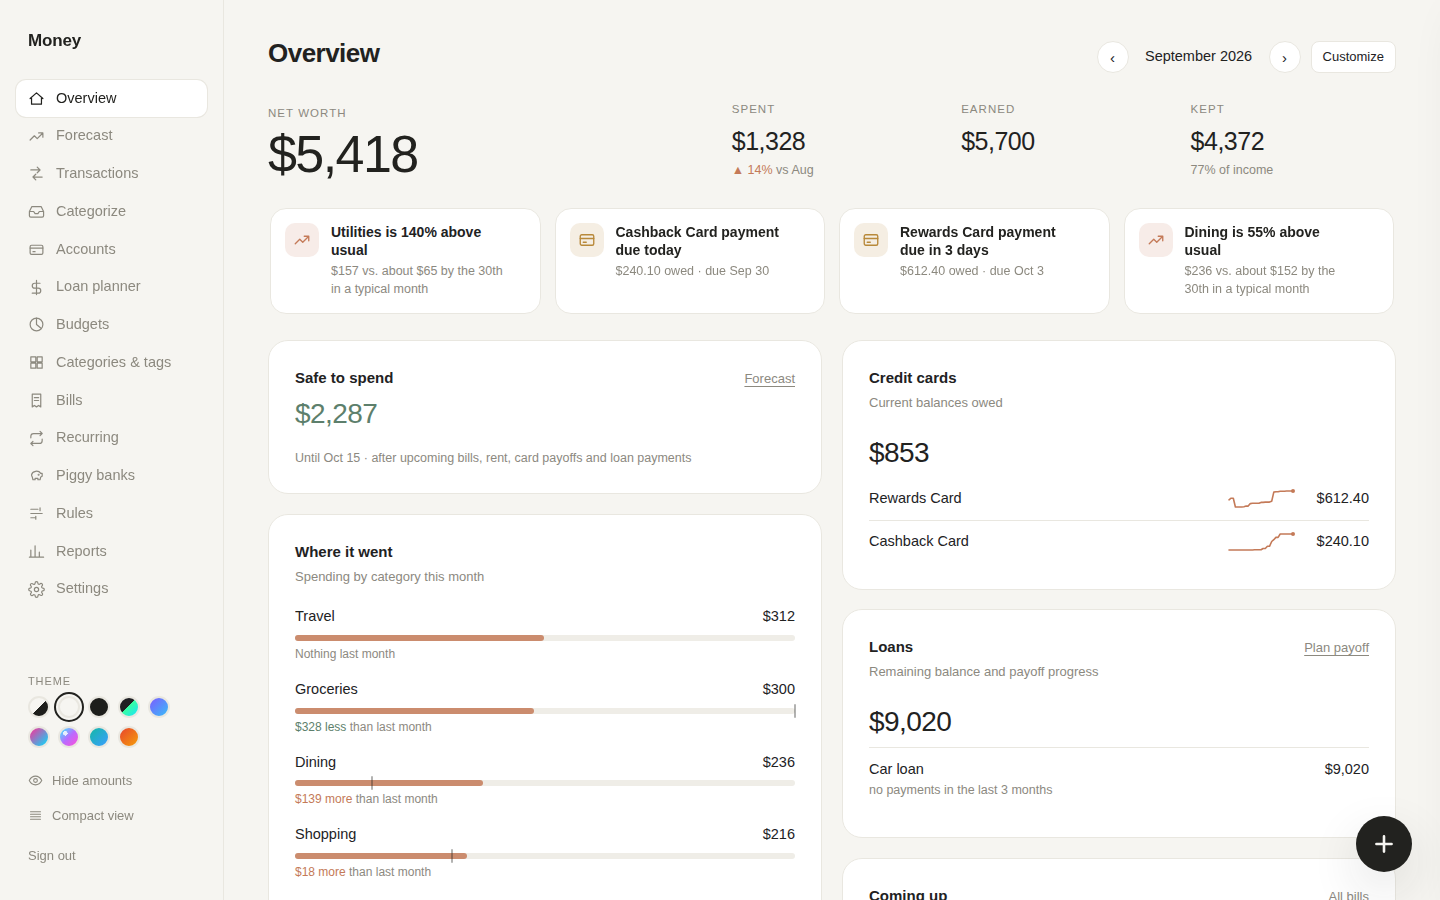
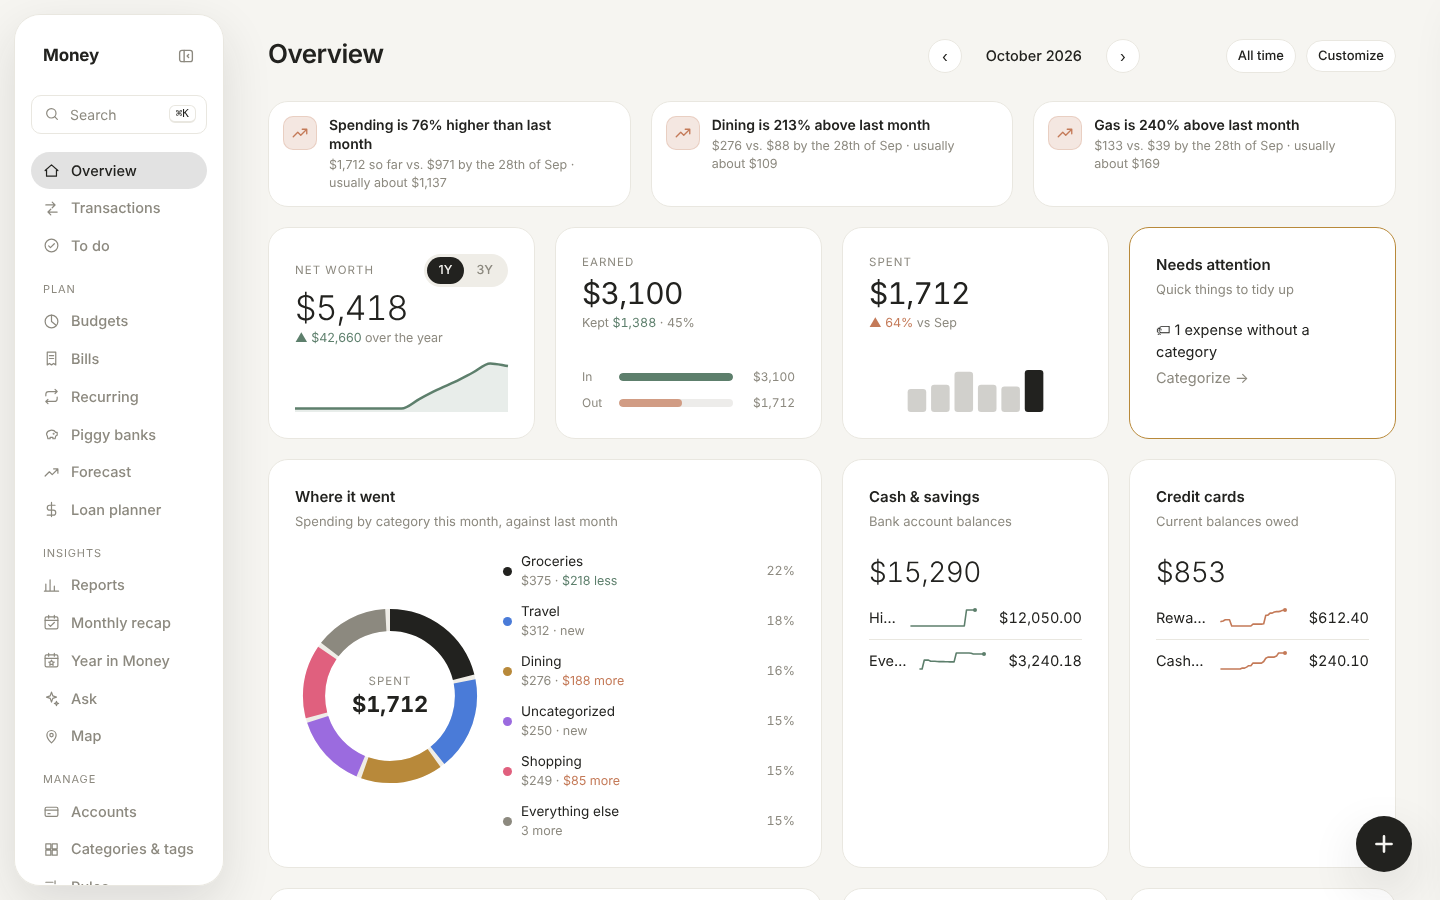
Frosted glass front and center: fresh screenshots, demo opens in Frosted glass with the bento Overview
- New README screenshots from the demo data in Frosted glass (desktop at 2x, iPhone overview, charts, transactions, edit sheet); Liquid glass neon joins the theme gallery
- The GitHub Pages demo opens in Frosted glass with the Overview arranged like the screenshots, on a first visit only
- Needs attention: in a narrow tile the action drops under the text instead of squeezing it to one word per line
- smoke_test --shots takes the new set with the same layout

Claude-Session: https://claude.ai/code/session_01RkvJ8mk2LYN7hbYLxsmdHk

diff --git a/app/src/demo/demo.ts b/app/src/demo/demo.ts
@@ -4,6 +4,17 @@
    When built with GOATCOUNTER set, it also counts visits to each page for GoatCounter (no cookies, no personal data). */
 import { NotFound, createMockApi } from './mockapi';
 
+// A first visit opens in Frosted glass, with the Overview arranged like the README's screenshots (this runs before
+// boot.js reads the theme). Anything the visitor changes is kept, and Customize → Reset gives the usual defaults.
+try {
+  if (!localStorage.getItem('moneyTheme')) localStorage.setItem('moneyTheme', 'frosted');
+  if (!localStorage.getItem('money.dash')) localStorage.setItem('money.dash', JSON.stringify({
+    v: 3, order: ['insights', 'networth', 'earned', 'spent', 'attention', 'spending', 'cash', 'cards', 'flow', 'heatmap', 'loans'],
+    shown: ['cash', 'cards', 'flow', 'heatmap', 'loans'], hidden: ['safe', 'budgets', 'bills', 'cashflow'],
+    size: { networth: 's', attention: 's', cash: 's', cards: 's', heatmap: 's', loans: 's', spending: 'm', flow: 'm' },
+  }));
+} catch (e) { /* storage blocked */ }
+
 const handle = createMockApi();
 const realFetch = window.fetch.bind(window);
 const json = { 'Content-Type': 'application/json' };

diff --git a/app/assets/money.css b/app/assets/money.css
@@ -343,6 +343,8 @@
   .tbl, .cards > .panel { contain: layout paint; }
   .attention { border-color: var(--warn); }
   .attention .row .name { white-space: normal; }
+  /* in a narrow tile the action drops under the text instead of squeezing it to a word per line */
+  .attention .row { flex-wrap: wrap; row-gap: 4px; } .attention .row .name { flex: 1 1 9em; }
   .offline { padding-top: calc(6px + env(safe-area-inset-top, 0px)) !important; position: fixed; top: 0; left: 0; right: 0; z-index: 70; background: var(--warn); color: #111; text-align: center; font-size: 13px; padding: 6px 12px; }
   /* ---------- Floating add button ---------- */
   .fab { position: fixed; right: 28px; bottom: 28px; width: 56px; height: 56px; border-radius: 50%; border: 0; background: var(--accent); color: var(--on-accent);

diff --git a/dev/smoke_test.py b/dev/smoke_test.py
@@ -276,31 +276,43 @@ async def check(pw, width, height, mobile):
     return errors
 
 
+# The Overview as the README and the online demo show it (app/src/demo/demo.ts sets up the same layout)
+SHOT_DASH = ('{"v":3,"order":["insights","networth","earned","spent","attention","spending","cash","cards","flow","heatmap","loans"],'
+             '"shown":["cash","cards","flow","heatmap","loans"],"hidden":["safe","budgets","bills","cashflow"],'
+             '"size":{"networth":"s","attention":"s","cash":"s","cards":"s","heatmap":"s","loans":"s","spending":"m","flow":"m"}}')
+
+
 async def screenshots(pw, out):
     br = await pw.chromium.launch()
-    async def shot(route, name, w=1440, h=900, mobile=False, theme='glass', action=None, full=False):
-        ctx = await br.new_context(viewport={'width': w, 'height': h}, is_mobile=mobile, has_touch=mobile, device_scale_factor=2 if mobile else 1)
+    async def shot(route, name, w=1440, h=900, mobile=False, theme='frosted', action=None, full=False, scale=None):
+        ctx = await br.new_context(viewport={'width': w, 'height': h}, is_mobile=mobile, has_touch=mobile, device_scale_factor=scale or (2 if mobile else 1))
         await ctx.add_cookies([{'name': 'money_session', 'value': 'demo', 'url': BASE.split('#')[0].rstrip('/') + '/api/'}])
+        await ctx.add_init_script(f"localStorage.setItem('money.dash', '{SHOT_DASH}'); localStorage.setItem('money.syncOff', 'true')")
         if theme: await ctx.add_init_script(f"localStorage.setItem('moneyTheme','{theme}')")
         pg = await ctx.new_page(); await pg.goto(BASE + '#/' + route)
-        await pg.wait_for_function(PAINTED); await pg.wait_for_function("() => !document.querySelector('#view .sk, #view [aria-busy]')"); await pg.wait_for_timeout(1200)
+        await pg.wait_for_function(PAINTED); await pg.wait_for_function("() => !document.querySelector('#view .sk, #view [aria-busy]')"); await pg.wait_for_timeout(2800)
         if action: await action(pg)
         await pg.screenshot(path=f'{out}/{name}.png', full_page=full); await ctx.close()
     async def open_tx(pg):
-        await pg.locator('tr[data-gid] .desc').nth(1).click(); await pg.wait_for_selector('#txForm'); await pg.wait_for_timeout(700)
+        await pg.locator('tr[data-gid] .desc, .daycards [data-gid]').nth(1).click(); await pg.wait_for_selector('#txForm'); await pg.wait_for_timeout(700)
     async def quick_add(pg):
         await pg.evaluate('App.quickAdd()'); await pg.wait_for_selector('#nlq'); await pg.wait_for_timeout(300)
         await pg.locator('#nlq').press_sequentially('coffee 5.40 rewards yesterday', delay=10); await pg.wait_for_timeout(500)
     async def to_flow(pg):
-        await pg.evaluate("document.querySelector('[data-w=flow]').scrollIntoView({block:'end'})"); await pg.evaluate('scrollBy(0,30)'); await pg.wait_for_timeout(500)
-    await shot('', 'overview')
-    await shot('', 'overview-charts', action=to_flow)
+        await pg.evaluate("document.querySelector('[data-w=flow]').scrollIntoView({block:'end'})"); await pg.evaluate('scrollBy(0,30)'); await pg.wait_for_timeout(900)
+    async def phone_scroll(pg):
+        await pg.evaluate("document.querySelector('[data-w=spending]').scrollIntoView({block:'start'})"); await pg.evaluate('scrollBy(0,-90)'); await pg.wait_for_timeout(900)
+    # Frosted glass first: it's the theme the README leads with
+    await shot('', 'overview', 1600, 1000, scale=2)
+    await shot('', 'overview-charts', 1600, 1000, action=to_flow)
     await shot('transactions', 'transactions')
     await shot('transactions', 'quick-add', action=quick_add)
+    await shot('', 'phone-overview', 402, 874, True)
+    await shot('', 'phone-overview-charts', 402, 874, True, action=phone_scroll)
+    await shot('transactions', 'phone-transactions', 402, 874, True)
+    await shot('transactions', 'phone-edit-sheet', 402, 874, True, action=open_tx)
     await shot('', 'overview-light', theme='light')
-    await shot('', 'phone-overview', 390, 844, True)
-    await shot('transactions', 'phone-edit-sheet', 390, 844, True, action=open_tx)
-    for k in ['dark', 'carbon', 'midnight', 'neon', 'ocean', 'sunrise', 'forest', 'nord', 'rose', 'frosted']:   # one per theme, for the theme gallery
+    for k in ['glass', 'dark', 'carbon', 'midnight', 'neon', 'ocean', 'sunrise', 'forest', 'nord', 'rose']:   # one per theme, for the theme gallery
         await shot('', f'theme-{k}', theme=k)
     await br.close()
 

diff --git a/README.md b/README.md
@@ -11,11 +11,11 @@ It's a small static web app (TypeScript bundled into one script) served by a sma
 
 **[Try the live demo →](https://muffy0906.github.io/firefly-money/)** It runs entirely in your browser with made-up data, so there's nothing to install and no sign-in.
 
-![Overview](docs/screenshots/overview.png)
+![Overview in the Frosted glass theme](docs/screenshots/overview.png)
 
 <p>
+  <img src="docs/screenshots/overview-charts.png" width="49%" alt="Money flow, daily spending calendar and loans on the Overview">
   <img src="docs/screenshots/transactions.png" width="49%" alt="Transactions grouped by day">
-  <img src="docs/screenshots/overview-charts.png" width="49%" alt="Daily spending calendar and money flow chart">
 </p>
 <p>
   <img src="docs/screenshots/quick-add.png" width="49%" alt="Natural-language quick add">
@@ -23,16 +23,21 @@ It's a small static web app (TypeScript bundled into one script) served by a sma
 </p>
 <p>
   <img src="docs/screenshots/phone-overview.png" width="24%" alt="Phone overview">
+  <img src="docs/screenshots/phone-overview-charts.png" width="24%" alt="Phone overview: spending ring, cash and credit cards">
+  <img src="docs/screenshots/phone-transactions.png" width="24%" alt="Phone transactions">
   <img src="docs/screenshots/phone-edit-sheet.png" width="24%" alt="Phone edit sheet">
 </p>
 
-*Screenshots use the built-in demo data (all names and amounts are made up), shown in the Liquid glass neon theme and, bottom right, Calm light.*
+*Screenshots use the built-in demo data (all names and amounts are made up), shown in the Frosted glass theme and, bottom right, Calm light. The [live demo](https://muffy0906.github.io/firefly-money/) opens in the same theme and layout.*
 
 <details>
 <summary><b>Themes:</b> 11 built-in themes, and you can tweak each one's colors in Settings → Appearance</summary>
 
-Liquid glass neon and Calm light are shown above. Calm can also follow your system's light or dark mode.
+Frosted glass and Calm light are shown above. Calm can also follow your system's light or dark mode.
 
+<p>
+  <img src="docs/screenshots/theme-glass.png" width="32%" alt="Overview in the Liquid glass neon theme" title="Liquid glass neon">
+</p>
 <p>
   <img src="docs/screenshots/theme-dark.png" width="32%" alt="Overview in the Calm dark theme" title="Calm dark">
   <img src="docs/screenshots/theme-carbon.png" width="32%" alt="Overview in the Carbon neon theme" title="Carbon neon">
